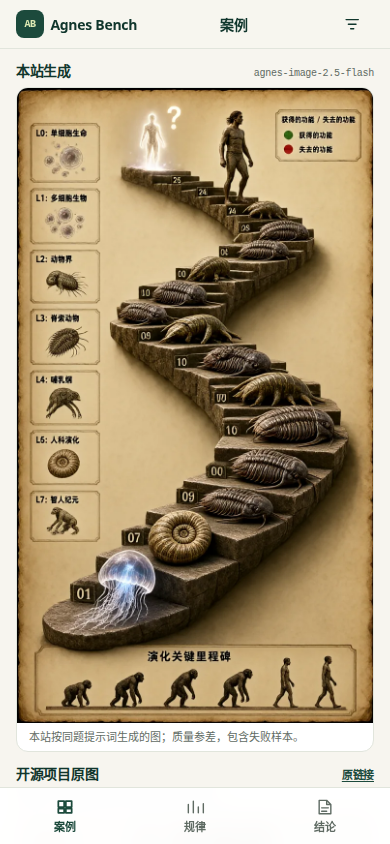
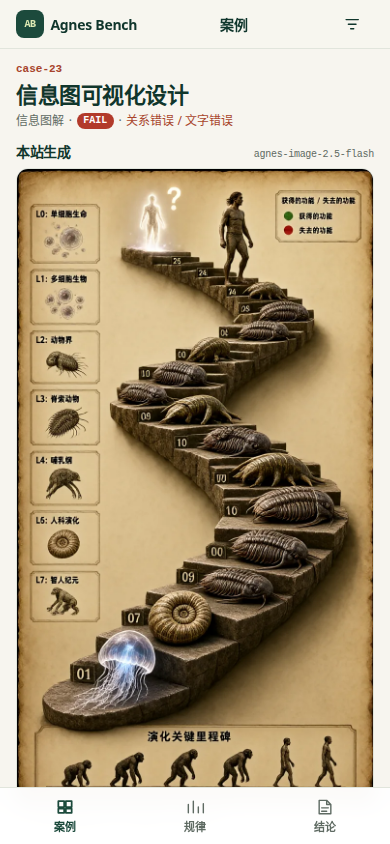
fix: 案例页首屏补标题判定，收紧成图说明并修正门槛配色

diff --git a/docs/release-matrix.md b/docs/release-matrix.md
@@ -1,7 +1,7 @@
 # 发布矩阵（T14）
 
-- 生成时间：2026-11-22T06:36:54.926Z
-- 基线提交（门禁执行时 HEAD）：`f6cd1a7f3095d3070033126be2ab25ece17dfbc9`（master）
+- 生成时间：2026-11-22T06:42:46.486Z
+- 基线提交（门禁执行时 HEAD）：`a503b6a9d005f64104099fd40bc525321d7be4f8`（master）
 - 门禁结果：**全部通过**
 - 门禁命令：`node tools/release-check.mjs`
 
@@ -9,7 +9,7 @@
 
 - 构建命令：`npx --yes astro build --outDir dist-t14`
 - 输出目录：`dist-t14/`（临时发布候选，已在 `.gitignore` 中忽略，不覆盖 `dist/`）
-- 构建耗时：7022 ms
+- 构建耗时：6396 ms
 - 总页数：557（案例页 541）
 - 静态资源：public/assets 下 1989 张 WebP，构建时原样复制到 `dist-t14/assets/`
 
@@ -55,7 +55,7 @@
 | 结构优先检索与 25 条金标 | pass | `node tools/evaluate-search.mjs` | 排序策略：structure > intent > text（lexicographic） |
 | 检索评估报告汇总 | pass | `reports/search-eval.json` | 25/25 查询达标，命中原因覆盖 125/125 |
 | 企鹅硬场景 Top5 ≥3 同结构 | pass | `reports/search-eval.json` | Top5 命中 3 个同结构：case-475、case-512、case-310 |
-| 静态构建（dist-t14） | pass | `npx --yes astro build --outDir dist-t14` | 557 页构建完成（7022 ms） |
+| 静态构建（dist-t14） | pass | `npx --yes astro build --outDir dist-t14` | 557 页构建完成（6396 ms） |
 | 页数与案例覆盖（557 页 / 541 案例） | pass | `遍历 dist-t14/index.html` | 557 页，其中案例页 541；{"cases":541,"categories":6,"conclusions":1,"experiments":4,"home":1,"methods":3,"patterns":1} |
 | 案例优先信息架构与数据驱动规律 | pass | `node quality/casefirst.check.mjs dist-t14` | 案例优先验收通过：首页 541 张卡、case-23 对照块与 5 条同门槛链接、规律页 69/126 与 TEXT_WRONG=105、结论页总盘齐全。 |
 | 实验证据页与结论下钻 | pass | `node quality/evidence-pages.check.mjs dist-t14` | 永久地址与 canonical 一致且不指向 latest；无评分 Run 的 5 处缺口被明确标注，未生成替代评分或结论。 |
@@ -64,7 +64,7 @@
 
 ## 只增数据契约测试
 
-- 方法：在临时目录 `/tmp/agnes-t14-contract-wXkXlJ` 构建，仓库内只临时追加数据行，结束后 `git restore` 还原。
+- 方法：在临时目录 `/tmp/agnes-t14-contract-HA6rA8` 构建，仓库内只临时追加数据行，结束后 `git restore` 还原。
 - 追加文件：`content/cases.json`、`content/prompt-versions/cases.json`，以及案例页渲染所必需的 `classifications.json`、`fingerprints.json`、`case-guides.json`、`decisions.json` 同 case_id 数据行。
 - 断言：案例页 541 → 542，旧 541 个案例 URL 全部保留，`src/` 目录哈希与 `git status -- src` 均无变化。
 - 还原：`git restore` 后内容字节与基线一致，复建页数回到 557 / 案例页 541；临时构建目录已删除。
